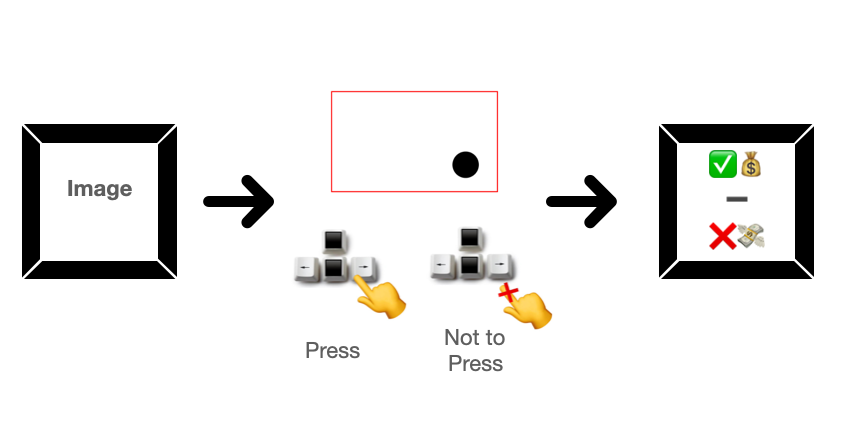
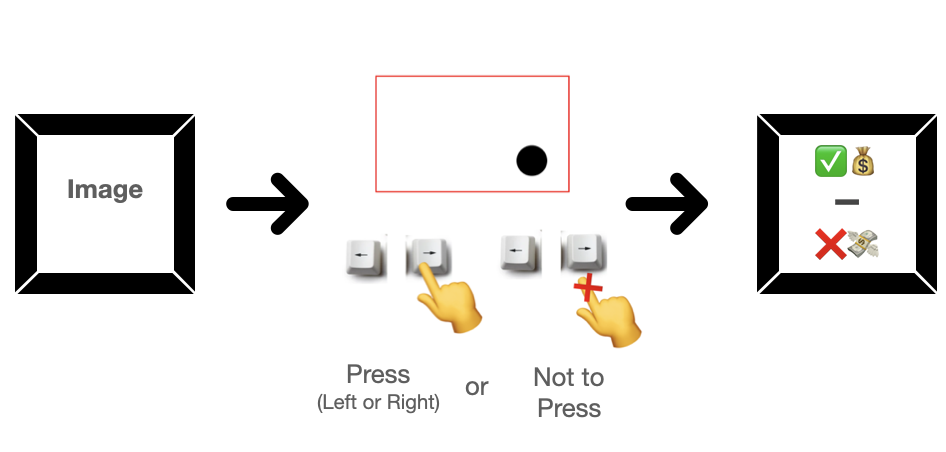
images of task updated

diff --git a/public/views/test_experiment.html b/public/views/test_experiment.html
@@ -32,7 +32,7 @@
 
 	<script src="../src/expriment_steps/introduction/fullscreen_intro_page.js"></script>
 	<script src="../src/expriment_steps/introduction/fullscreen.js"></script>
-	<script src="../src/expriment_steps/introduction/instructions.js"></script>
+	<script src="../src/expriment_steps/introduction/instructions_modified.js"></script>
 	<script src="../src/expriment_steps/introduction/instruction_questions.js"></script>
 	<script src="../src/expriment_steps/introduction/questions_fail.js"></script>
 	<script src="../src/expriment_steps/introduction/instruction_repeat.js"></script>

diff --git a/public/src/task.js b/public/src/task.js
@@ -87,6 +87,7 @@ jsPsych.data.addProperties({
 jsPsych.init({
     timeline: timeline,
     on_interaction_data_update: on_interaction_data_update,
+    show_progress_bar: true,
     exclusions: {
       min_width: 800,
       min_height: 800
